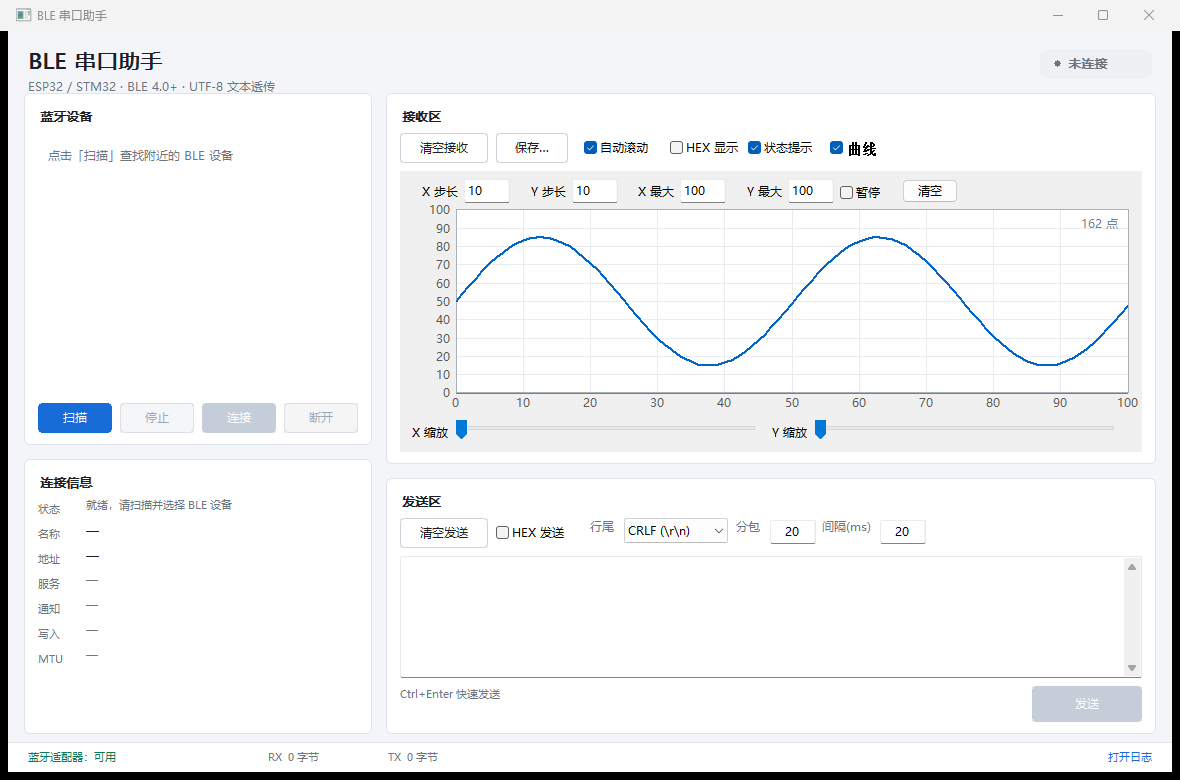
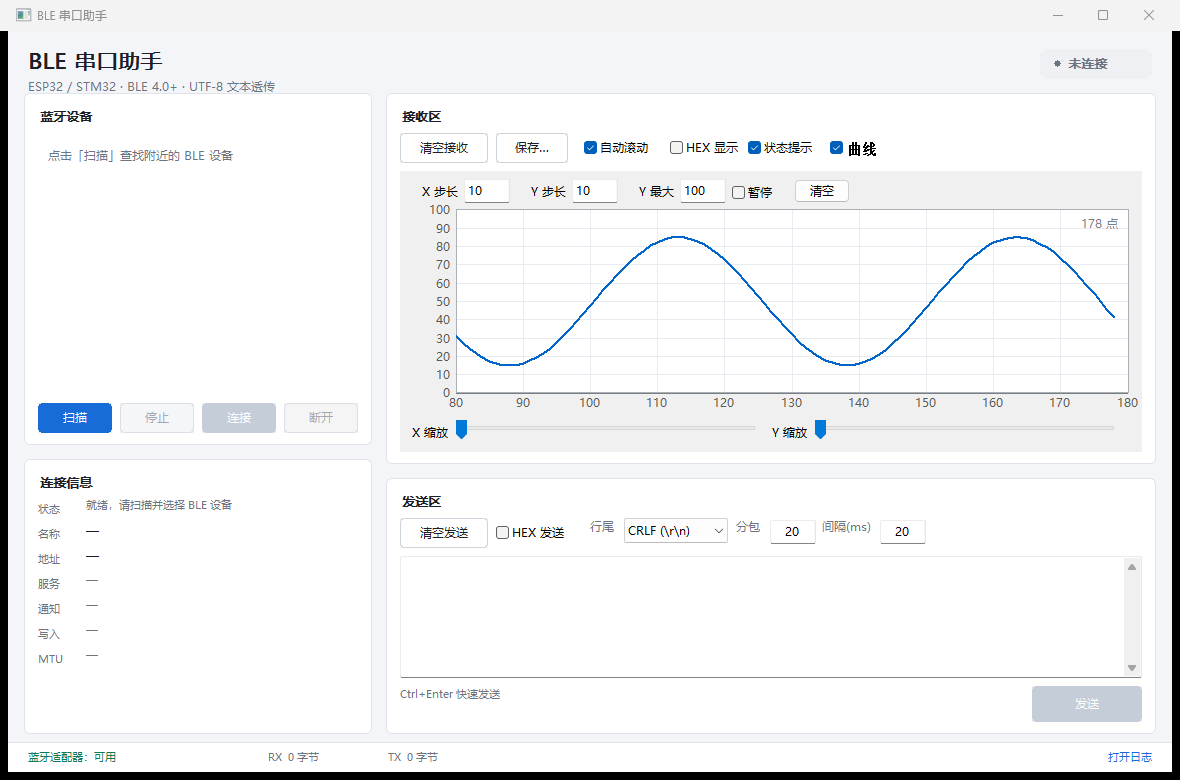
feat(plot): X 轴改为数据自动右移的滚动窗口
- 去掉 X 最大值设置，窗口宽度由 X 缩放决定
- 新数据超出右边界时视图自动跟随右移
- 网格/刻度从可视范围起点开始，避免边缘重复标签

diff --git a/src/plot.c b/src/plot.c
@@ -24,7 +24,6 @@
 
 #define IDC_XSTEP   3001
 #define IDC_YSTEP   3002
-#define IDC_XMAX    3003
 #define IDC_YMAX    3004
 #define IDC_PAUSE   3005
 #define IDC_CLEAR   3006
@@ -50,7 +49,7 @@ static HWND g_wnd;
 static BOOL g_visible;
 static BOOL g_ready;
 
-static HWND g_ed_xstep, g_ed_ystep, g_ed_xmax, g_ed_ymax;
+static HWND g_ed_xstep, g_ed_ystep, g_ed_ymax;
 static HWND g_chk_pause, g_btn_clear;
 static HWND g_tb_zoomx, g_tb_zoomy;
 static HWND g_lbl[6];
@@ -66,11 +65,14 @@ static char g_pbuf[64];
 static int g_plen;
 static int g_pkt;
 
-/* 视图设置 */
-static double g_xmax = 100.0, g_ymax = 100.0;
+/* 视图设置：X 轴不设最大值，按数据自动向右滚动 */
+static double g_xwin = 100.0;          /* 1x 时 X 轴窗口宽度（数据单位） */
+static double g_ymax = 100.0;
 static double g_xstep = 10.0, g_ystep = 10.0;
 static double g_zoomx = 1.0, g_zoomy = 1.0;
 static double g_x0 = 0.0, g_y0 = 0.0;
+static double g_latest_x;
+static BOOL g_have_x;
 static BOOL g_paused;
 static DWORD g_last_inval;
 static BOOL g_drag;
@@ -92,11 +94,11 @@ static double clampd(double v, double lo, double hi)
 
 static void view_params(double *x0, double *y0, double *sx, double *sy)
 {
-    *sx = g_xmax / g_zoomx;
+    *sx = g_xwin / g_zoomx;
     *sy = g_ymax / g_zoomy;
     if (*sx < 1e-6) *sx = 1e-6;
     if (*sy < 1e-6) *sy = 1e-6;
-    *x0 = clampd(g_x0, 0.0, g_xmax - *sx > 0.0 ? g_xmax - *sx : 0.0);
+    *x0 = g_x0 < 0.0 ? 0.0 : g_x0;
     *y0 = clampd(g_y0, 0.0, g_ymax - *sy > 0.0 ? g_ymax - *sy : 0.0);
     g_x0 = *x0;
     g_y0 = *y0;
@@ -144,6 +146,22 @@ static void add_point(double x, double y)
         g_pts[g_start].x = (float)x;
         g_pts[g_start].y = (float)y;
         g_start = (g_start + 1) % g_cap;
+    }
+    {
+        double span = g_xwin / g_zoomx;
+        if (!g_have_x) {
+            g_x0 = x > span * 0.02 ? x - span * 0.02 : 0.0;
+            g_have_x = TRUE;
+        } else if (x < g_x0 - span * 0.5) {
+            /* 新一轮数据从较小的 x 重新开始 */
+            g_x0 = x - span * 0.02;
+            if (g_x0 < 0.0) g_x0 = 0.0;
+        } else if (x > g_x0 + span * 0.98) {
+            /* 数据超出右边界：窗口跟着往右移 */
+            g_x0 = x - span * 0.98;
+            if (g_x0 < 0.0) g_x0 = 0.0;
+        }
+        g_latest_x = x;
     }
     request_redraw(FALSE);
 }
@@ -208,7 +226,6 @@ static void apply_settings(void)
     if (!g_ready) return;
     if (read_double(g_ed_xstep, &v) && v > 0) g_xstep = v;
     if (read_double(g_ed_ystep, &v) && v > 0) g_ystep = v;
-    if (read_double(g_ed_xmax, &v) && v > 0 && v > g_xstep) g_xmax = v;
     if (read_double(g_ed_ymax, &v) && v > 0 && v > g_ystep) g_ymax = v;
     {
         double x0, y0, sx, sy;
@@ -217,15 +234,26 @@ static void apply_settings(void)
     request_redraw(TRUE);
 }
 
-static void set_zoom(double *zoom, double nz, double *origin, double maxv)
+static void set_zoom_x(double nz)
 {
-    double old_span = maxv / *zoom;
-    double center = *origin + old_span / 2.0;
+    nz = clampd(nz, ZOOM_MIN, ZOOM_MAX);
+    g_zoomx = nz;
+    if (g_have_x) {
+        double span = g_xwin / g_zoomx;
+        g_x0 = g_latest_x - span * 0.98;
+        if (g_x0 < 0.0) g_x0 = 0.0;
+    }
+}
+
+static void set_zoom_y(double nz)
+{
+    double old_span = g_ymax / g_zoomy;
+    double center = g_y0 + old_span / 2.0;
     double new_span;
     nz = clampd(nz, ZOOM_MIN, ZOOM_MAX);
-    *zoom = nz;
-    new_span = maxv / *zoom;
-    *origin = clampd(center - new_span / 2.0, 0.0, maxv - new_span > 0 ? maxv - new_span : 0.0);
+    g_zoomy = nz;
+    new_span = g_ymax / g_zoomy;
+    g_y0 = clampd(center - new_span / 2.0, 0.0, g_ymax - new_span > 0 ? g_ymax - new_span : 0.0);
 }
 
 static void sync_zoom_sliders(void)
@@ -254,12 +282,13 @@ static void zoom_at(int px, int py, double factor)
         double datay = y0 + fy * sy;
         double nzx = clampd(g_zoomx * factor, ZOOM_MIN, ZOOM_MAX);
         double nzy = clampd(g_zoomy * factor, ZOOM_MIN, ZOOM_MAX);
-        double nsx = g_xmax / nzx;
+        double nsx = g_xwin / nzx;
         double nsy = g_ymax / nzy;
 
         g_zoomx = nzx;
         g_zoomy = nzy;
-        g_x0 = clampd(datax - fx * nsx, 0.0, g_xmax - nsx > 0 ? g_xmax - nsx : 0.0);
+        g_x0 = datax - fx * nsx;
+        if (g_x0 < 0.0) g_x0 = 0.0;
         g_y0 = clampd(datay - fy * nsy, 0.0, g_ymax - nsy > 0 ? g_ymax - nsy : 0.0);
     }
     sync_zoom_sliders();
@@ -285,7 +314,7 @@ static void draw_labels(HDC dc)
     SelectObject(dc, g_font_small);
 
     /* X 轴刻度 */
-    v = floor(x0 / g_xstep) * g_xstep;
+    v = ceil(x0 / g_xstep) * g_xstep;
     if (v < 0) v = 0;
     for (; v <= x0 + sx + 1e-9 && guard < 200; v += g_xstep, guard++) {
         int px = g_plotrect.left + (int)((v - x0) / sx * w);
@@ -300,7 +329,7 @@ static void draw_labels(HDC dc)
 
     /* Y 轴刻度 */
     guard = 0;
-    v = floor(y0 / g_ystep) * g_ystep;
+    v = ceil(y0 / g_ystep) * g_ystep;
     if (v < 0) v = 0;
     for (; v <= y0 + sy + 1e-9 && guard < 200; v += g_ystep, guard++) {
         int py = g_plotrect.bottom - (int)((v - y0) / sy * h);
@@ -328,7 +357,7 @@ static void draw_grid(HDC dc)
     SelectObject(dc, pen);
 
     guard = 0;
-    v = floor(x0 / g_xstep) * g_xstep;
+    v = ceil(x0 / g_xstep) * g_xstep;
     if (v < 0) v = 0;
     for (; v <= x0 + sx + 1e-9 && guard < 200; v += g_xstep, guard++) {
         int px = g_plotrect.left + (int)((v - x0) / sx * w);
@@ -336,7 +365,7 @@ static void draw_grid(HDC dc)
         LineTo(dc, px, g_plotrect.bottom);
     }
     guard = 0;
-    v = floor(y0 / g_ystep) * g_ystep;
+    v = ceil(y0 / g_ystep) * g_ystep;
     if (v < 0) v = 0;
     for (; v <= y0 + sy + 1e-9 && guard < 200; v += g_ystep, guard++) {
         int py = g_plotrect.bottom - (int)((v - y0) / sy * h);
@@ -501,14 +530,12 @@ static void create_children(HWND wnd)
 
     g_lbl[0] = make_ctl(L"STATIC", L"X 步长", SS_RIGHT, 0, IDC_LXSTEP);
     g_lbl[1] = make_ctl(L"STATIC", L"Y 步长", SS_RIGHT, 0, IDC_LYSTEP);
-    g_lbl[2] = make_ctl(L"STATIC", L"X 最大", SS_RIGHT, 0, IDC_LXMAX);
     g_lbl[3] = make_ctl(L"STATIC", L"Y 最大", SS_RIGHT, 0, IDC_LYMAX);
     g_lbl[4] = make_ctl(L"STATIC", L"X 缩放", SS_RIGHT, 0, IDC_LZX);
     g_lbl[5] = make_ctl(L"STATIC", L"Y 缩放", SS_RIGHT, 0, IDC_LZY);
 
     g_ed_xstep = make_ctl(L"EDIT", L"10", ES_AUTOHSCROLL | WS_TABSTOP, WS_EX_CLIENTEDGE, IDC_XSTEP);
     g_ed_ystep = make_ctl(L"EDIT", L"10", ES_AUTOHSCROLL | WS_TABSTOP, WS_EX_CLIENTEDGE, IDC_YSTEP);
-    g_ed_xmax = make_ctl(L"EDIT", L"100", ES_AUTOHSCROLL | WS_TABSTOP, WS_EX_CLIENTEDGE, IDC_XMAX);
     g_ed_ymax = make_ctl(L"EDIT", L"100", ES_AUTOHSCROLL | WS_TABSTOP, WS_EX_CLIENTEDGE, IDC_YMAX);
 
     g_chk_pause = make_ctl(L"BUTTON", L"暂停", BS_AUTOCHECKBOX | WS_TABSTOP, 0, IDC_PAUSE);
@@ -539,7 +566,7 @@ static void create_children(HWND wnd)
 
     {
         HWND all[] = { g_lbl[0], g_lbl[1], g_lbl[2], g_lbl[3], g_lbl[4], g_lbl[5],
-                       g_ed_xstep, g_ed_ystep, g_ed_xmax, g_ed_ymax,
+                       g_ed_xstep, g_ed_ystep, g_ed_ymax,
                        g_chk_pause, g_btn_clear };
         int i;
         for (i = 0; i < (int)(sizeof(all) / sizeof(all[0])); i++)
@@ -564,8 +591,6 @@ static void do_layout(HWND wnd)
     MoveWindow(g_ed_xstep, x, y, ew, eh, TRUE); x += ew + gap;
     MoveWindow(g_lbl[1], x, y + 4, lw - 6, 20, TRUE); x += lw;
     MoveWindow(g_ed_ystep, x, y, ew, eh, TRUE); x += ew + gap;
-    MoveWindow(g_lbl[2], x, y + 4, lw - 6, 20, TRUE); x += lw;
-    MoveWindow(g_ed_xmax, x, y, ew, eh, TRUE); x += ew + gap;
     MoveWindow(g_lbl[3], x, y + 4, lw - 6, 20, TRUE); x += lw;
     MoveWindow(g_ed_ymax, x, y, ew, eh, TRUE); x += ew + gap;
     MoveWindow(g_chk_pause, x, y + 3, 58, 22, TRUE); x += 62;
@@ -618,7 +643,7 @@ static LRESULT CALLBACK PlotWndProc(HWND wnd, UINT msg, WPARAM wp, LPARAM lp)
 
     case WM_COMMAND:
         switch (LOWORD(wp)) {
-        case IDC_XSTEP: case IDC_YSTEP: case IDC_XMAX: case IDC_YMAX:
+        case IDC_XSTEP: case IDC_YSTEP: case IDC_YMAX:
             if (HIWORD(wp) == EN_CHANGE) apply_settings();
             return 0;
         case IDC_PAUSE:
@@ -634,7 +659,7 @@ static LRESULT CALLBACK PlotWndProc(HWND wnd, UINT msg, WPARAM wp, LPARAM lp)
     case WM_TIMER:
         if (wp == 1) {
             g_demo_x += 1.0;
-            if (g_demo_x > g_xmax) g_demo_x = 0.0;
+            if (g_demo_x > 1000.0) g_demo_x = 0.0;
             if (g_demo_mode == 2) {
                 char pkt[48];
                 int n = sprintf(pkt, "[%.1f,%.1f]", g_demo_x,
@@ -650,11 +675,11 @@ static LRESULT CALLBACK PlotWndProc(HWND wnd, UINT msg, WPARAM wp, LPARAM lp)
     case WM_HSCROLL:
         if ((HWND)lp == g_tb_zoomx) {
             int pos = (int)SendMessageW(g_tb_zoomx, TBM_GETPOS, 0, 0);
-            set_zoom(&g_zoomx, pos / 100.0, &g_x0, g_xmax);
+            set_zoom_x(pos / 100.0);
             request_redraw(TRUE);
         } else if ((HWND)lp == g_tb_zoomy) {
             int pos = (int)SendMessageW(g_tb_zoomy, TBM_GETPOS, 0, 0);
-            set_zoom(&g_zoomy, pos / 100.0, &g_y0, g_ymax);
+            set_zoom_y(pos / 100.0);
             request_redraw(TRUE);
         }
         return 0;
@@ -702,8 +727,8 @@ static LRESULT CALLBACK PlotWndProc(HWND wnd, UINT msg, WPARAM wp, LPARAM lp)
             pt.x = GET_X_LPARAM(lp);
             pt.y = GET_Y_LPARAM(lp);
             view_params(&x0, &y0, &sx, &sy);
-            g_x0 = clampd(g_dragx0 - (double)(pt.x - g_dragpt.x) / (double)w * sx,
-                          0.0, g_xmax - sx > 0 ? g_xmax - sx : 0.0);
+            g_x0 = g_dragx0 - (double)(pt.x - g_dragpt.x) / (double)w * sx;
+            if (g_x0 < 0.0) g_x0 = 0.0;
             g_y0 = clampd(g_dragy0 + (double)(pt.y - g_dragpt.y) / (double)h * sy,
                           0.0, g_ymax - sy > 0 ? g_ymax - sy : 0.0);
             request_redraw(TRUE);

diff --git a/README.md b/README.md
@@ -16,7 +16,7 @@
   - HM-10 / AT-09 / JDY-08 透传模块：`FFE0` / `FFE1`；
   - 其它自定义服务：自动选择「第一个同时具备 Notify 和 Write 特征」的服务。
 - **接收区**：实时显示，支持 UTF-8 文本 / HEX 显示，自动滚动、状态提示、保存为 UTF-8 文本。
-- **曲线绘图**：接收区可切换成坐标轴视图，解析 `[x,y]` 数据包实时画曲线，可设步长/最大值、缩放、平移、暂停。
+- **曲线绘图**：接收区可切换成坐标轴视图，解析 `[x,y]` 数据包实时画曲线，X 轴数据自动右移、可设步长/Y 最大值、缩放、平移、暂停。
 - **发送区**：UTF-8 文本 / HEX 发送，可选行尾（无 / CRLF / LF），可设置**分包大小**和**包间隔**，
   `Ctrl+Enter` 快速发送。
 - **蓝牙信息区**：设备名称、连接状态、MAC、服务 UUID、通知特征、写入特征、MTU、读写方式。
@@ -397,12 +397,13 @@ Get-ChildItem Cert:\CurrentUser\My |
 **坐标轴**
 
 - X 轴从 0 开始，没有负半轴；Y 轴同样从 0 开始；
-- 左上四个输入框：`X 步长`、`Y 步长`、`X 最大`、`Y 最大`，分别控制网格间距和可视范围；
+- 左上三个输入框：`X 步长`、`Y 步长`、`Y 最大`，分别控制网格间距和 Y 轴范围；
+- **X 轴不设最大值**：数据持续到来时，视图自动向右滚动，最新的点始终在右侧；
 - 曲线在 X 方向回退时（例如新一轮采集从 0 重新开始）会自动断开，不会画出一条横穿全图的长线。
 
 **缩放与平移**
 
-- 底部 `X 缩放` / `Y 缩放` 滑块：1x ~ 50x；
+- 底部 `X 缩放` / `Y 缩放` 滑块：1x ~ 50x（X 缩放改变滚动窗口的宽度）；
 - 鼠标滚轮：以光标位置为中心缩放；
 - 按住左键拖动：平移；
 - 双击绘图区：复位到 1x 和原点。
